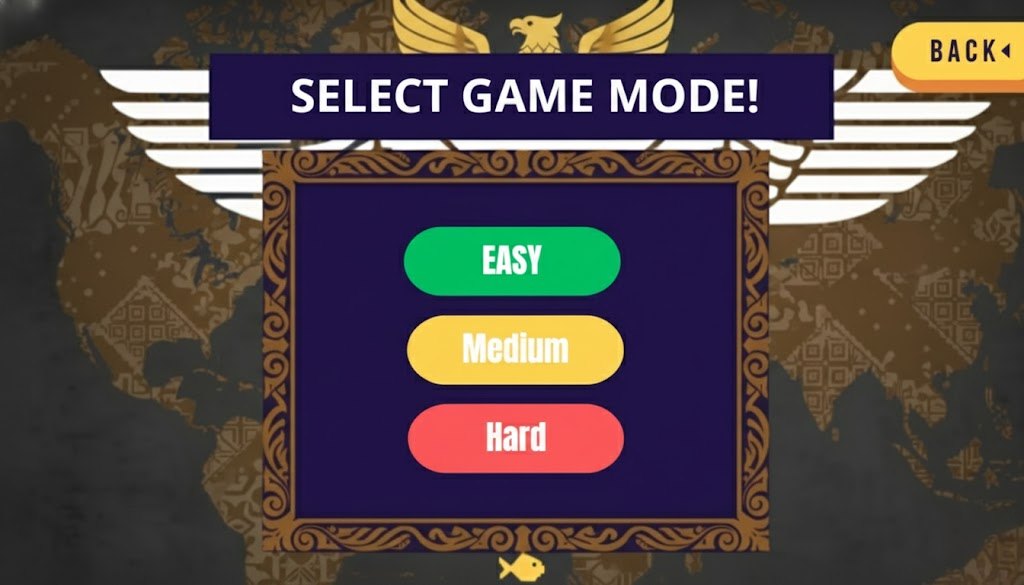
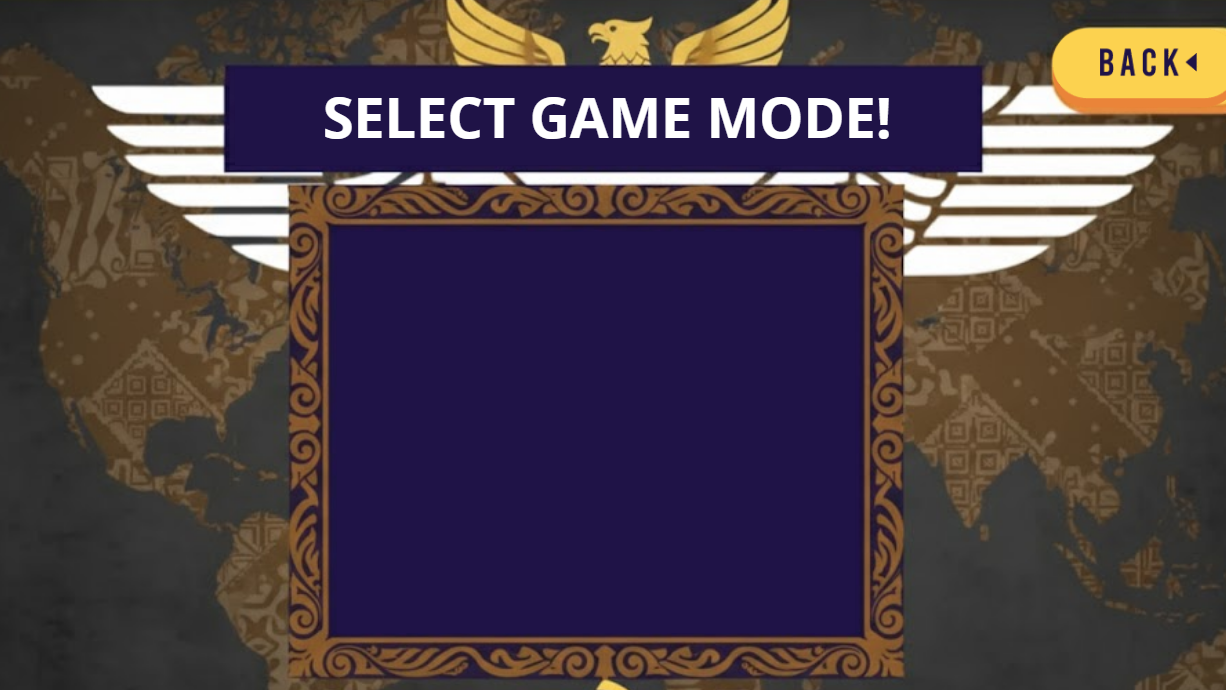
30 oktober 21:26
added buttons, fixing bug

diff --git a/Boat.java b/Boat.java
@@ -1,15 +1,26 @@
 import greenfoot.*;
 
 public class Boat extends Actor {
+    private GreenfootImage[] right;
+    private GreenfootImage[] left;
+
+    private int frame = 0;
+    private int dir = 1; // 1 = kanan, -1 = kiri
+    private boolean moving = false;
+    private SimpleTimer animTimer = new SimpleTimer();
+    private int frameMs = 100;
     private int speed = 6;
 
     public Boat() {
+        right = new GreenfootImage[4]; // ubah 4 sesuai jumlah frame animasi kamu
+        left = new GreenfootImage[4];
+
         loadRightFrames();
         // Pilih salah satu:
-        loadLeftFrames();       // <-- gunakan ini kalau kamu SUDAH punya file kiri
-        // buildLeftByMirror(); // <-- gunakan ini kalau BELUM punya file kiri (mirror otomatis)
+        loadLeftFrames();       // kalau punya file arah kiri
+        // buildLeftByMirror(); // kalau mau mirror otomatis
 
-        setImage(right[0]);     // idle awal
+        setImage(right[0]); // idle awal
     }
 
     public void act() {
@@ -23,14 +34,14 @@ public class Boat extends Actor {
     private void handleMove() {
         if (Greenfoot.isKeyDown("left") || Greenfoot.isKeyDown("a")) {
             setLocation(getX() - speed, getY());
-            dir = -1;         // arah terakhir = kiri
+            dir = -1;
             moving = true;
         } else if (Greenfoot.isKeyDown("right") || Greenfoot.isKeyDown("d")) {
             setLocation(getX() + speed, getY());
-            dir = 1;          // arah terakhir = kanan
+            dir = 1;
             moving = true;
         } else {
-            moving = false;   // berhenti tapi dir tetap disimpan
+            moving = false;
         }
     }
 
@@ -43,46 +54,41 @@ public class Boat extends Actor {
     // ---------- Animation ----------
     private void animate() {
         if (moving) {
-            if (animTimer.hasElapsed(frameMs)) {
+            if (animTimer.millisElapsed() > frameMs) {
                 frame = (frame + 1) % right.length;
                 animTimer.mark();
             }
         } else {
-            frame = 0; // idle frame
-    }
+            frame = 0;
+        }
 
-    // gunakan arah terakhir yang disimpan di `dir`
-        if (dir > 0) { 
-            setImage(right[frame]); 
-        } else if (dir < 0) { 
-            setImage(left[frame]); 
+        if (dir > 0) {
+            setImage(right[frame]);
         } else {
-            // kalau belum pernah bergerak sama sekali (awal game)
-            setImage(right[0]);
-    }
+            setImage(left[frame]);
+        }
     }
 
     // ---------- Load frames ----------
     private void loadRightFrames() {
         for (int i = 0; i < right.length; i++) {
-            right[i] = new GreenfootImage("Boat_Kiri_Frame_" + i + ".png");
+            right[i] = new GreenfootImage("Boat_Animation_Frame_" + i + ".png");
             right[i].scale(150, 150);
         }
     }
 
-    /** Gunakan ini jika kamu punyafile 'boat_left_i.png'. */
     private void loadLeftFrames() {
         for (int i = 0; i < left.length; i++) {
-            left[i] = new GreenfootImage("Boat_Animation_Frame_" + i + ".png");
+            left[i] = new GreenfootImage("Boat_Kiri_Frame_" + i + ".png");
             left[i].scale(150, 150);
         }
     }
 
-    /** Alternatif: bikin frame kiri dari mirror kanan (kalau tidak punya file kiri). */
+    // ---------- Build mirror ----------
     @SuppressWarnings("unused")
     private void buildLeftByMirror() {
         for (int i = 0; i < left.length; i++) {
-            left[i] = new GreenfootImage(right[i]); // copy dulu
+            left[i] = new GreenfootImage(right[i]);
             left[i].mirrorHorizontally();
         }
     }

diff --git a/GameMode.java b/GameMode.java
@@ -18,21 +18,39 @@ public class GameMode extends World
         // Create a new world with 600x400 cells with a cell size of 1x1 pixels.
         // 1. Atur ukuran dunia agar SAMA dengan GameWorld
         super(960, 540, 1); 
-        
+
         // --- KODE UNTUK MEMPERBAIKI LATAR BELAKANG ---
-        
+
         // 2. Ambil gambar asli (GANTI "nama_background_menu.png" DENGAN NAMA FILE ANDA)
         GreenfootImage bg = new GreenfootImage("background_mode.png"); 
-        
+
         // 3. Paksa gambar untuk pas dengan ukuran dunia (648x468)
         bg.scale(960, 540);
-        
+
         // 4. Atur gambar yang sudah dikecilkan
         setBackground(bg);
-        
+
         // --- AKHIR DARI PERUBAHAN ---
 
         // Panggil method untuk menambahkan tombol
         //ButtonMenu(); 
+        prepare();
+    }
+    
+    /**
+     * Prepare the world for the start of the program.
+     * That is: create the initial objects and add them to the world.
+     */
+    private void prepare()
+    {
+        BtnBack btnBack = new BtnBack();
+        addObject(btnBack,899,45);
+
+        BtnEasy btnEasy = new BtnEasy();
+        addObject(btnEasy,460,235);
+        BtnMedium btnMedium = new BtnMedium();
+        addObject(btnMedium,460,335);
+        BtnHard btnHard = new BtnHard();
+        addObject(btnHard,460,440);
     }
 }

diff --git a/BtnMedium.java b/BtnMedium.java
@@ -8,12 +8,23 @@ import greenfoot.*;  // (World, Actor, GreenfootImage, Greenfoot and MouseInfo)
  */
 public class BtnMedium extends Actor
 {
-    /**
-     * Act - do whatever the BtnMedium wants to do. This method is called whenever
-     * the 'Act' or 'Run' button gets pressed in the environment.
-     */
+      public BtnMedium()
+    {
+        // 1. Ambil gambar asli dari tombolnya
+        GreenfootImage image = getImage();
+        
+        image.scale(150,150); 
+        
+        // 3. Atur gambar yang sudah dikecilkan kembali ke aktor
+        setImage(image);
+    }
+    
     public void act()
     {
-        // Add your action code here.
+        // Add your action code here.if (Greenfoot.mouseClicked(this)) {
+            if (Greenfoot.mouseClicked(this)) 
+        {
+            Greenfoot.setWorld(new GameWorld());
+        }
     }
 }

diff --git a/BtnEasy.java b/BtnEasy.java
@@ -8,12 +8,23 @@ import greenfoot.*;  // (World, Actor, GreenfootImage, Greenfoot and MouseInfo)
  */
 public class BtnEasy extends Actor
 {
-    /**
-     * Act - do whatever the BtnEasy wants to do. This method is called whenever
-     * the 'Act' or 'Run' button gets pressed in the environment.
-     */
+      public BtnEasy()
+    {
+        // 1. Ambil gambar asli dari tombolnya
+        GreenfootImage image = getImage();
+        
+        image.scale(150,150); 
+        
+        // 3. Atur gambar yang sudah dikecilkan kembali ke aktor
+        setImage(image);
+    }
+    
     public void act()
     {
-        // Add your action code here.
+        // Add your action code here.if (Greenfoot.mouseClicked(this)) {
+            if (Greenfoot.mouseClicked(this)) 
+        {
+            Greenfoot.setWorld(new GameWorld());
+        }
     }
 }

diff --git a/BtnHard.java b/BtnHard.java
@@ -8,12 +8,23 @@ import greenfoot.*;  // (World, Actor, GreenfootImage, Greenfoot and MouseInfo)
  */
 public class BtnHard extends Actor
 {
-    /**
-     * Act - do whatever the BtnHard wants to do. This method is called whenever
-     * the 'Act' or 'Run' button gets pressed in the environment.
-     */
+      public BtnHard()
+    {
+        // 1. Ambil gambar asli dari tombolnya
+        GreenfootImage image = getImage();
+        
+        image.scale(150,150); 
+        
+        // 3. Atur gambar yang sudah dikecilkan kembali ke aktor
+        setImage(image);
+    }
+    
     public void act()
     {
-        // Add your action code here.
+        // Add your action code here.if (Greenfoot.mouseClicked(this)) {
+            if (Greenfoot.mouseClicked(this)) 
+        {
+            Greenfoot.setWorld(new GameWorld());
+        }
     }
 }

diff --git a/BtnBack.java b/BtnBack.java
@@ -8,12 +8,23 @@ import greenfoot.*;  // (World, Actor, GreenfootImage, Greenfoot and MouseInfo)
  */
 public class BtnBack extends Actor
 {
-    /**
-     * Act - do whatever the BtnBack wants to do. This method is called whenever
-     * the 'Act' or 'Run' button gets pressed in the environment.
-     */
+      public BtnBack()
+    {
+        // 1. Ambil gambar asli dari tombolnya
+        GreenfootImage image = getImage();
+        
+        image.scale(200,150); 
+        
+        // 3. Atur gambar yang sudah dikecilkan kembali ke aktor
+        setImage(image);
+    }
+    
     public void act()
     {
-        // Add your action code here.
+        // Add your action code here.if (Greenfoot.mouseClicked(this)) {
+            if (Greenfoot.mouseClicked(this)) 
+        {
+            Greenfoot.setWorld(new Menu());
+        }
     }
 }

diff --git a/BtnStart.java b/BtnStart.java
@@ -24,7 +24,7 @@ public class BtnStart extends Actor
         // Add your action code here.if (Greenfoot.mouseClicked(this)) {
             if (Greenfoot.mouseClicked(this)) 
         {
-            Greenfoot.setWorld(new GameWorld());
+            Greenfoot.setWorld(new GameMode());
         }
     }
 }
